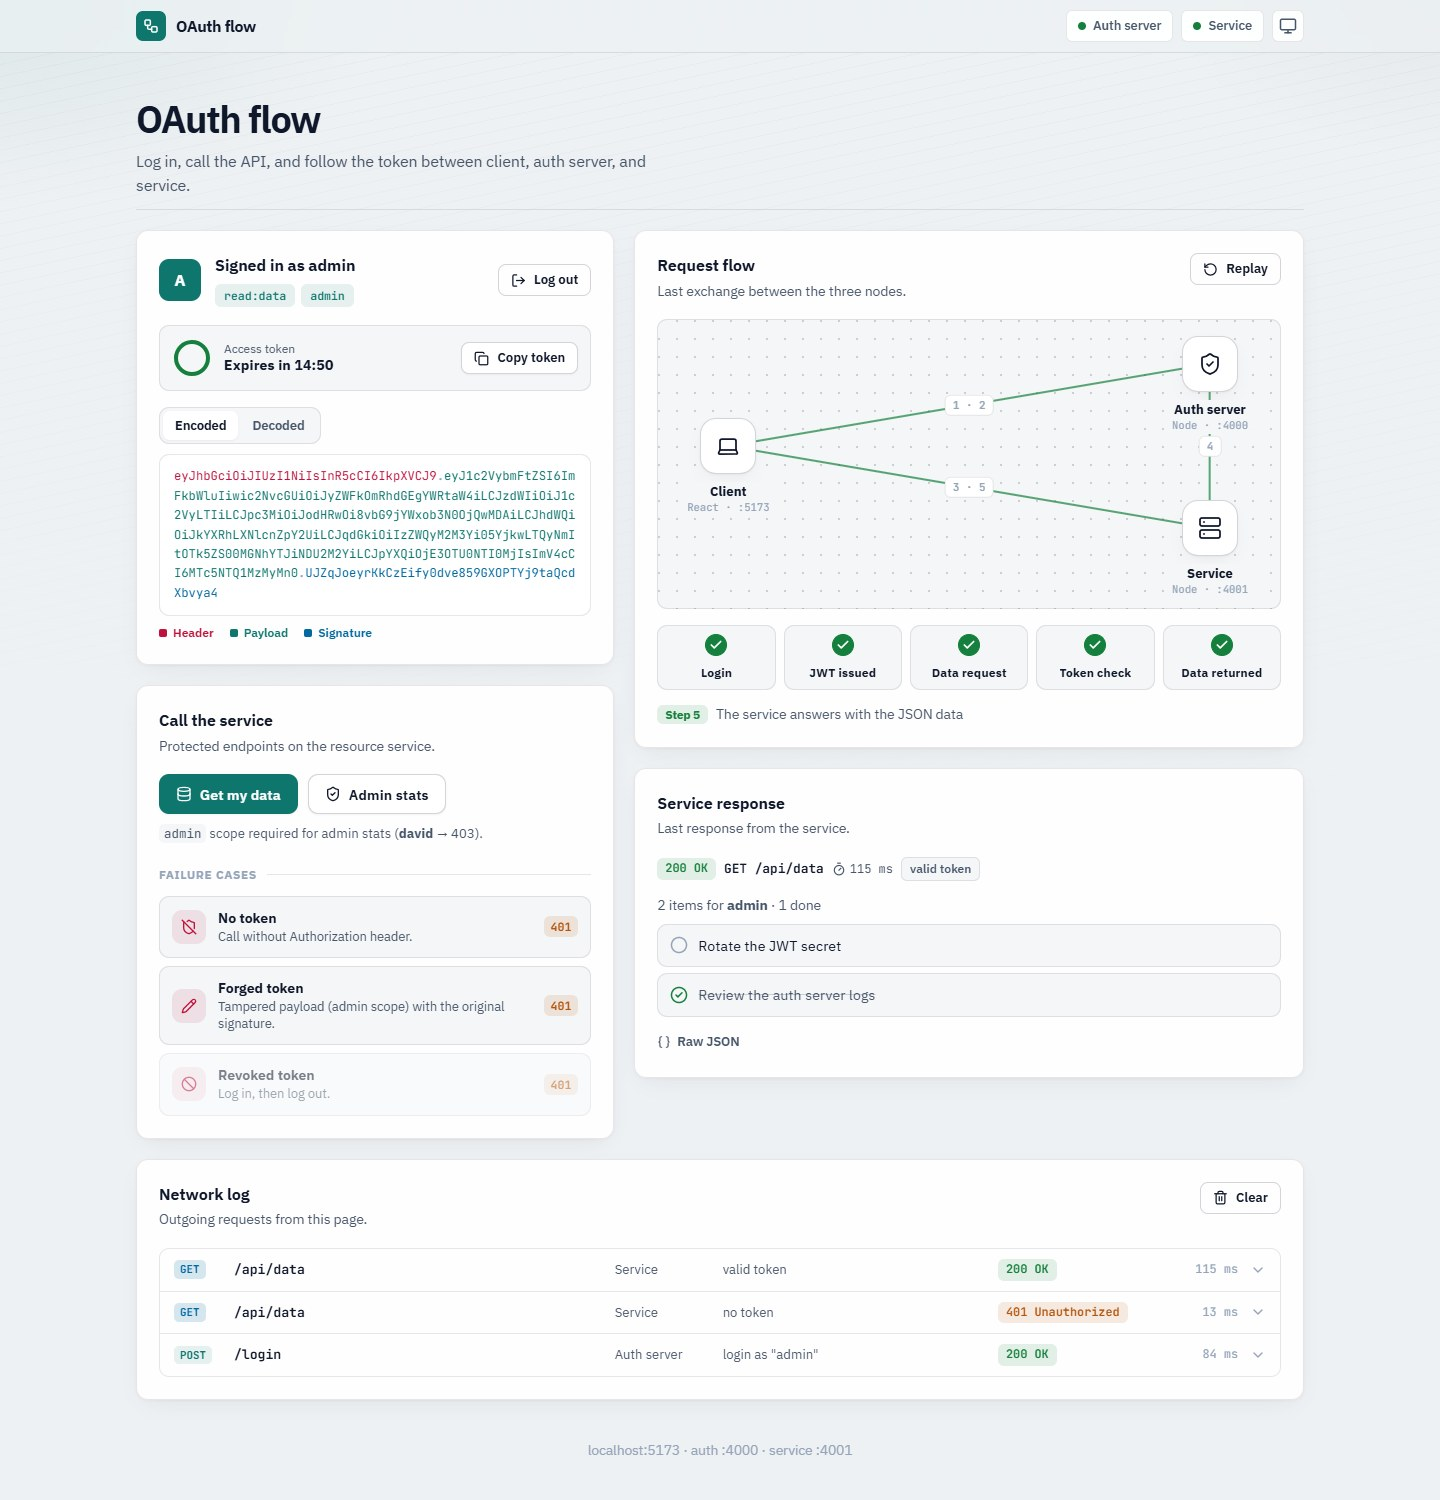
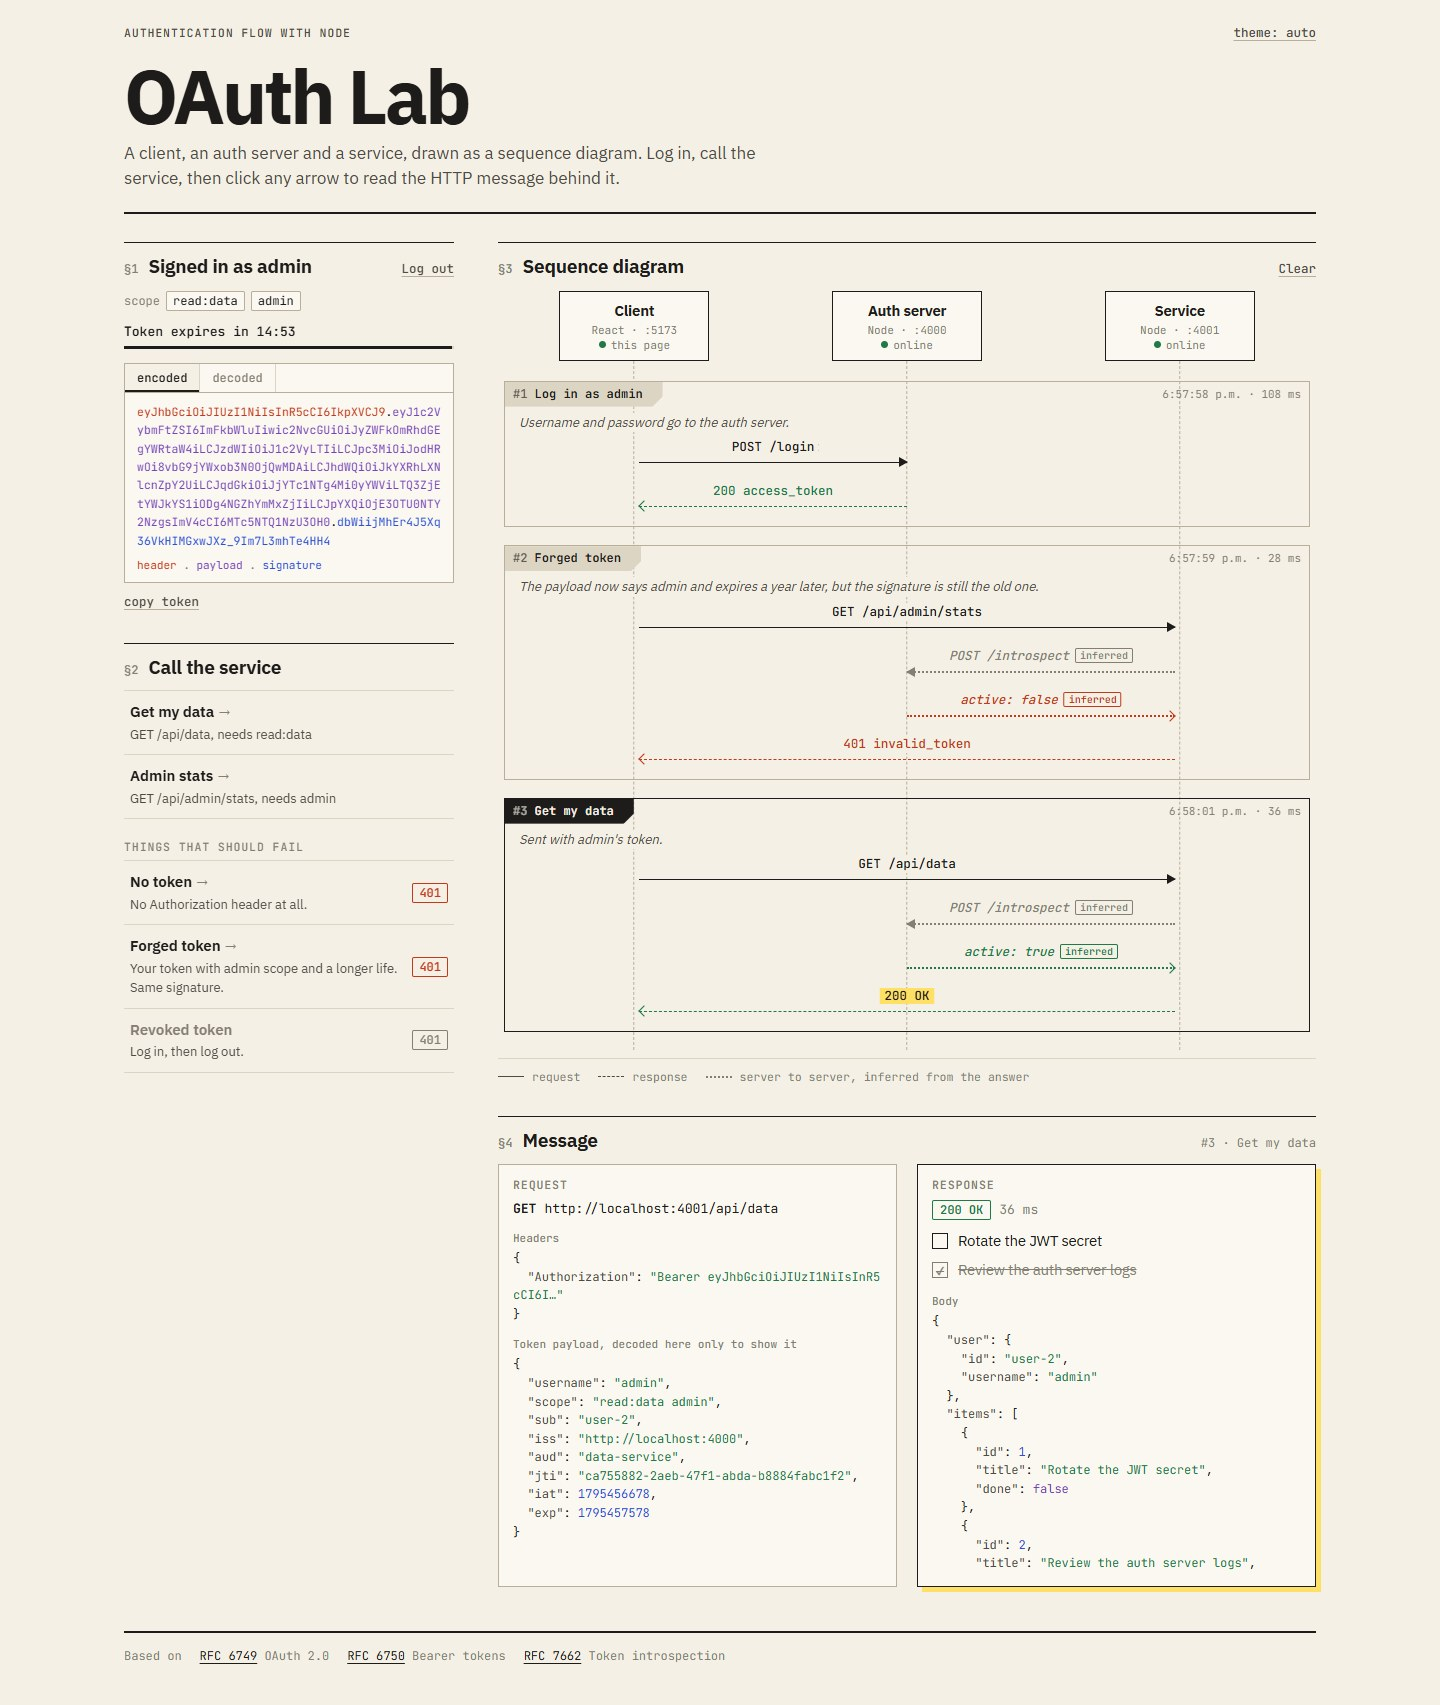
docs: show the sequence diagram in the README

diff --git a/README.md b/README.md
@@ -17,9 +17,9 @@ Client on :5173, auth server on :4000, service on :4001. Demo users are `david` 
 
 **Live demo:** https://oauth-lab-demo.onrender.com. It runs on Render's free plan (from [`render.yaml`](render.yaml)), so the first load can take about a minute while the servers wake up.
 
-![The app after logging in as admin and calling the service](docs/screenshot.jpg)
+![The app drawing a login, a forged token and a data call as a sequence diagram](docs/screenshot.jpg)
 
-Besides the normal calls, the UI has buttons for the failure cases: no token, a forged token (payload changed to add `admin`, original signature) and a revoked token (reused after logout).
+The client draws every call as a sequence diagram, and you can click any arrow to see the HTTP message behind it. The browser can't see the service asking the auth server about the token, so those two arrows are dotted and inferred from the service's answer. There are also buttons for the failure cases: no token, a forged token (admin scope and a later expiry, original signature) and a revoked token (reused after logout).
 
 ## Flow
 
